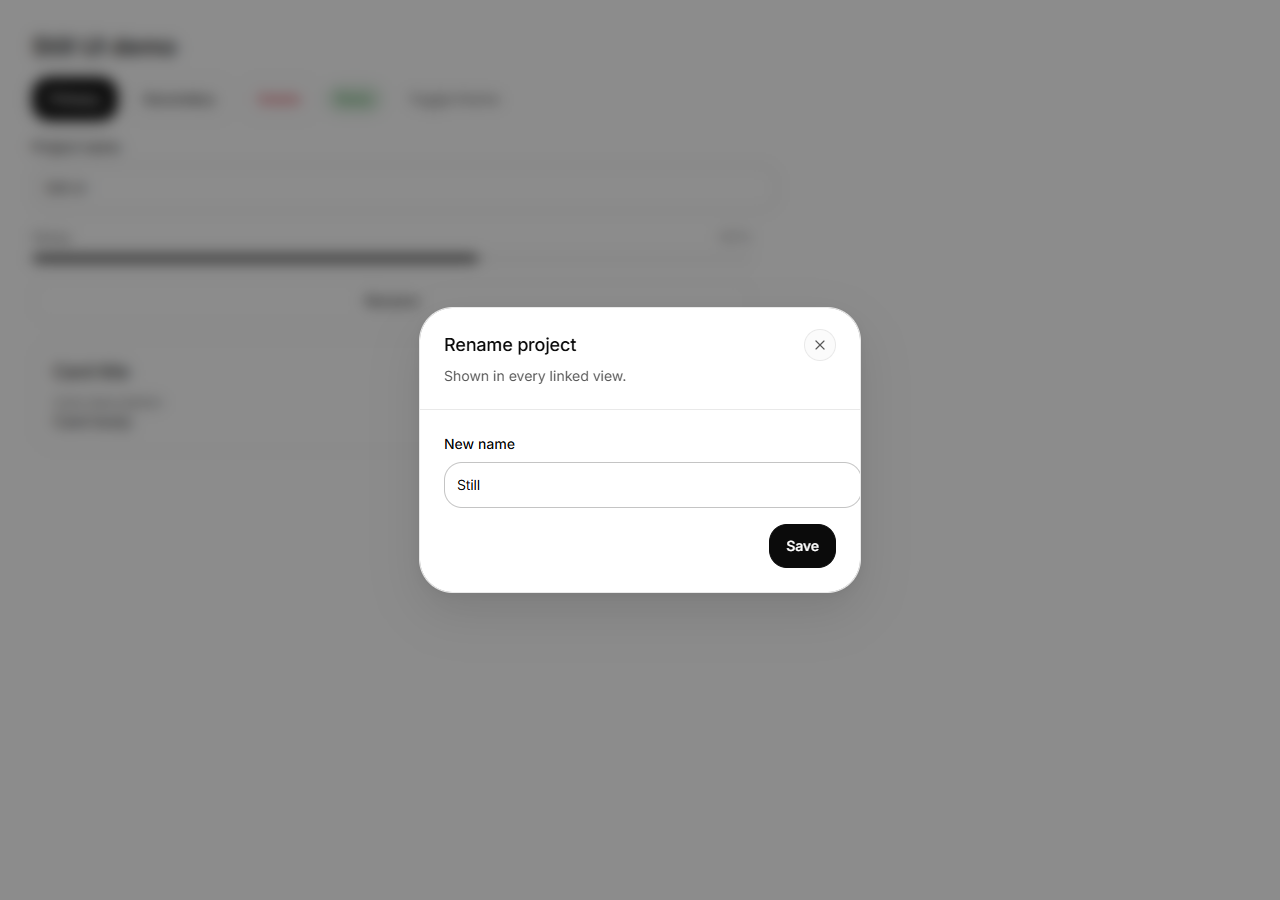
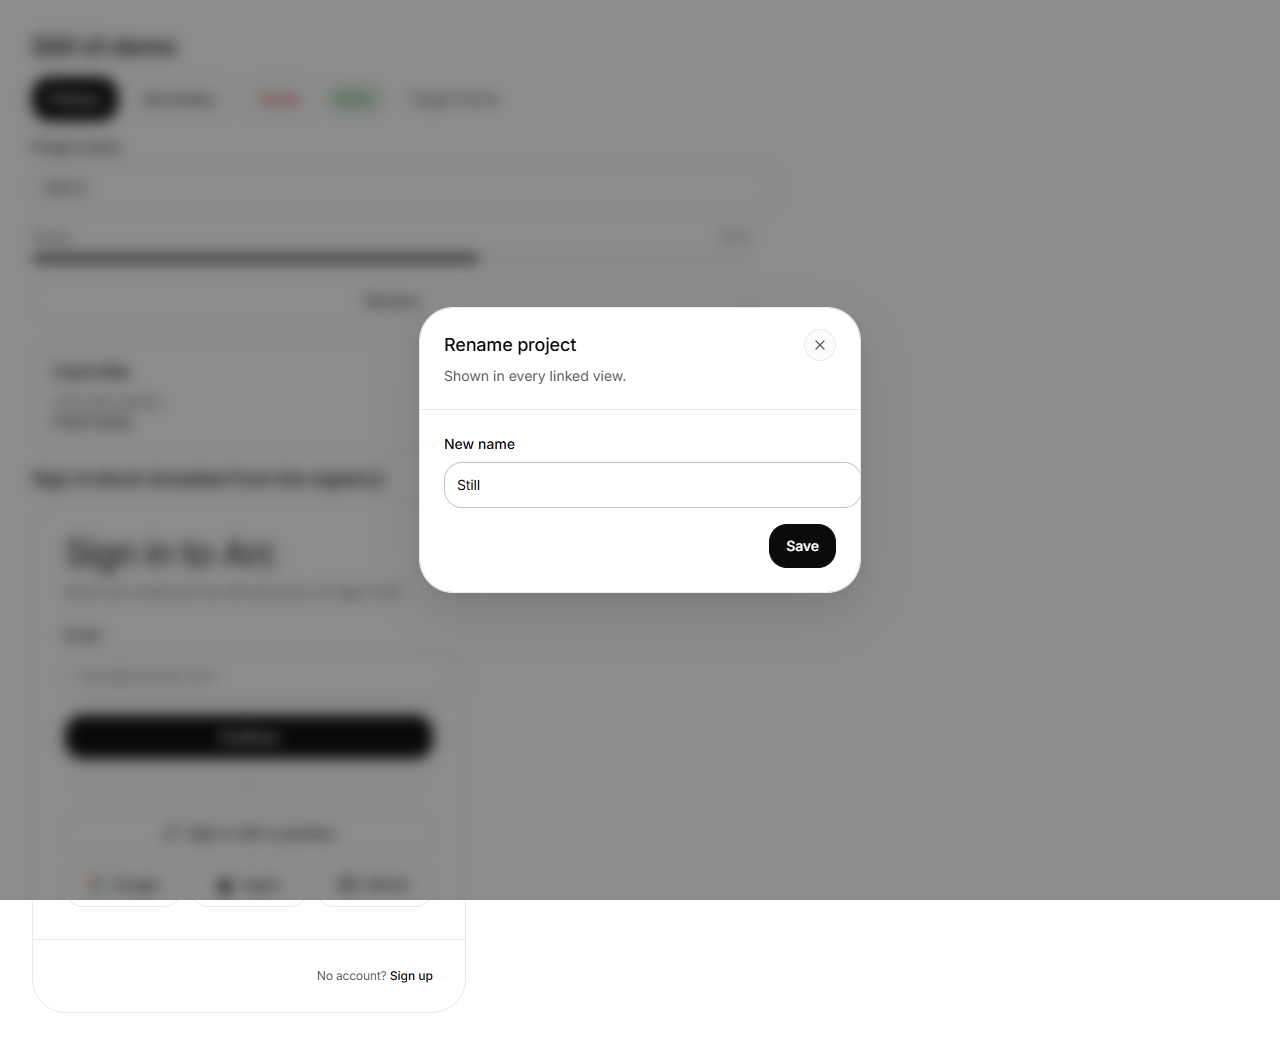
Verify full set: block install, rebuild, and original-look screenshots

diff --git a/VERIFICATION.md b/VERIFICATION.md
@@ -2,7 +2,7 @@
 
 Date: 2026-10-22. Environment: Windows, Node 24.14, npm 11.19, Chrome (headless, Playwright), shadcn CLI 4.22.1.
 
-The library is the full free Arc set: 116 components + 22 blocks + 2 foundation items = **140 registry items**.
+The library is the full free Arc set: 116 components + 22 blocks + 2 foundation items = **140 registry items**. Visual language, tokens, and component source match the upstream site ([uiarc.dev](https://uiarc.dev)).
 
 ## Library checks
 
@@ -20,8 +20,9 @@ A fresh Vite React 19 + TypeScript app (`still-ui-demo`, outside this repository
 - 137 items installed, 420 files, 289 unique targets.
 - Three Next.js page examples (`changelog-feed`, `newsletter-signup`, `site-header`) were skipped in the Vite app because they import `next/image` or `next/link` directly; they are typechecked in the library repository instead.
 - A barrel that re-exports all 138 installed TSX modules compiled: `tsc --noEmit` passed (with `lib: ES2023`, required by `signature-pad`).
-- `vite build` passed: 811 kB JS (256 kB gzip), 189.9 kB CSS (30.4 kB gzip).
-- Playwright render: no page errors; `prefers-reduced-motion` respected by the components; dialog opens and closes with Escape; theme switch and `data-accent` changes apply. Light and dark screenshots captured with the original Arc visual language (neutral palette, 18px control radius, ink primary button) and Inter loaded.
+- `vite build` passed: 813.9 kB JS, 200.5 kB CSS.
+- Playwright render: no page errors; dialog opens and closes with Escape; `data-theme` and `data-accent` switches apply; the `sign-in` block rendered correctly inside the page. Screenshots use the original Arc look: neutral palette, 18px control radius, ink primary button, Inter loaded (Geist fallback).
+- Verified values in the browser: `--accent: oklch(33% 0 0)`, primary button `background: oklch(0.15 0 0)`, radius `18px`, no horizontal overflow at 1280px.
 
 ## Real shadcn CLI install
 
@@ -31,11 +32,13 @@ A second fresh Vite app (`still-ui-cli-test`) registered only the raw registry i
 { "registries": { "@still": "https://raw.githubusercontent.com/gyb-cpu/still-ui/main/public/r/{name}.json" } }
 ```
 
-`npx shadcn@latest add @still/still-foundation @still/button @still/input @still/dialog --yes --overwrite` created 9 files under `src/components/still/`, installed `motion` / `lucide-react` / `@radix-ui/react-dialog` as needed, and rewrote local imports to relative paths. Then `tsc --noEmit` and `vite build` passed, and Playwright confirmed the dialog renders and opens.
+`npx shadcn@latest add @still/still-foundation @still/sign-in @still/date-picker @still/dialog --yes --overwrite` created 22 files under `src/components/still/`, including the sign-in **block** and the components it composes (avatar, button, input, otp-input, calendar), plus `lib/media.ts`, `lib/still-provider.tsx`, `lib/use-today.ts`. The CLI installed `motion` / `lucide-react` / Radix packages as needed and rewrote imports to relative paths (`../../avatar/avatar`, `../../lib/motion-tokens`).
+
+Then `tsc --noEmit` and `vite build` passed.
 
 ## Not verified
 
 - The repository has no unit or e2e suite; verification is typecheck, registry consistency, production builds, and browser smoke checks.
-- Only a small subset (button, input, dialog, card, badge, progress, plus the theme tokens) was visually inspected; the other items compile and build but were not each rendered.
-- Copy is English and formatting defaults are `en-US`, as inherited from upstream.
+- Visual inspection covered button, input, dialog, card, badge, progress, the sign-in block, and the theme tokens; the other items compile and build but were not each rendered.
 - The three Next.js page blocks require Next.js at runtime and were not rendered in the Vite app.
+- Copy is English and formatting defaults are `en-US`; blocks ship upstream demo copy, including the "Arc" brand name, to replace before shipping.

diff --git a/SKILL.md b/SKILL.md
@@ -56,7 +56,7 @@ Read `docs/<id>.md` before using a component. It lists the install command, file
 
 Do not install a component for a plain `<button>`, a native `<input>` inside an existing form system, or anything the project already has a house component for. Prefer one still item over a new bespoke component.
 
-**Blocks** are complete sections or screens (sign-in, sign-up, command palette, pricing comparison, hero, site header/footer, FAQ, changelog, blog grid, stats band, file upload, notification center, empty states). Reach for a block when the job is a whole section; install it, then replace copy, data, and links. Blocks pull in the components they compose automatically.
+**Blocks** are complete sections or screens (sign-in, sign-up, command palette, pricing comparison, hero, site header/footer, FAQ, changelog, blog grid, stats band, file upload, notification center, empty states). Reach for a block when the job is a whole section; install it, then replace copy, data, and links. Blocks ship upstream demo copy — including the "Arc" brand name, sample emails, and remote sample images — so replace those before shipping. Blocks pull in the components they compose automatically.
 
 ## Design rules
 

diff --git a/README.md b/README.md
@@ -98,6 +98,8 @@ Components read semantic tokens and never raw colors. Change the palette in `fou
 
 Every item has a page under [`docs/`](./docs) with its install command, files, exports, and a usage snippet. `llms.txt` is the flat index for coding agents.
 
+Blocks ship upstream demo copy: replace the "Arc" brand name, sample emails, links, and remote sample images before shipping.
+
 ## For AI coding agents
 
 - [`SKILL.md`](./SKILL.md): how to choose, install, compose, and verify Still components.
